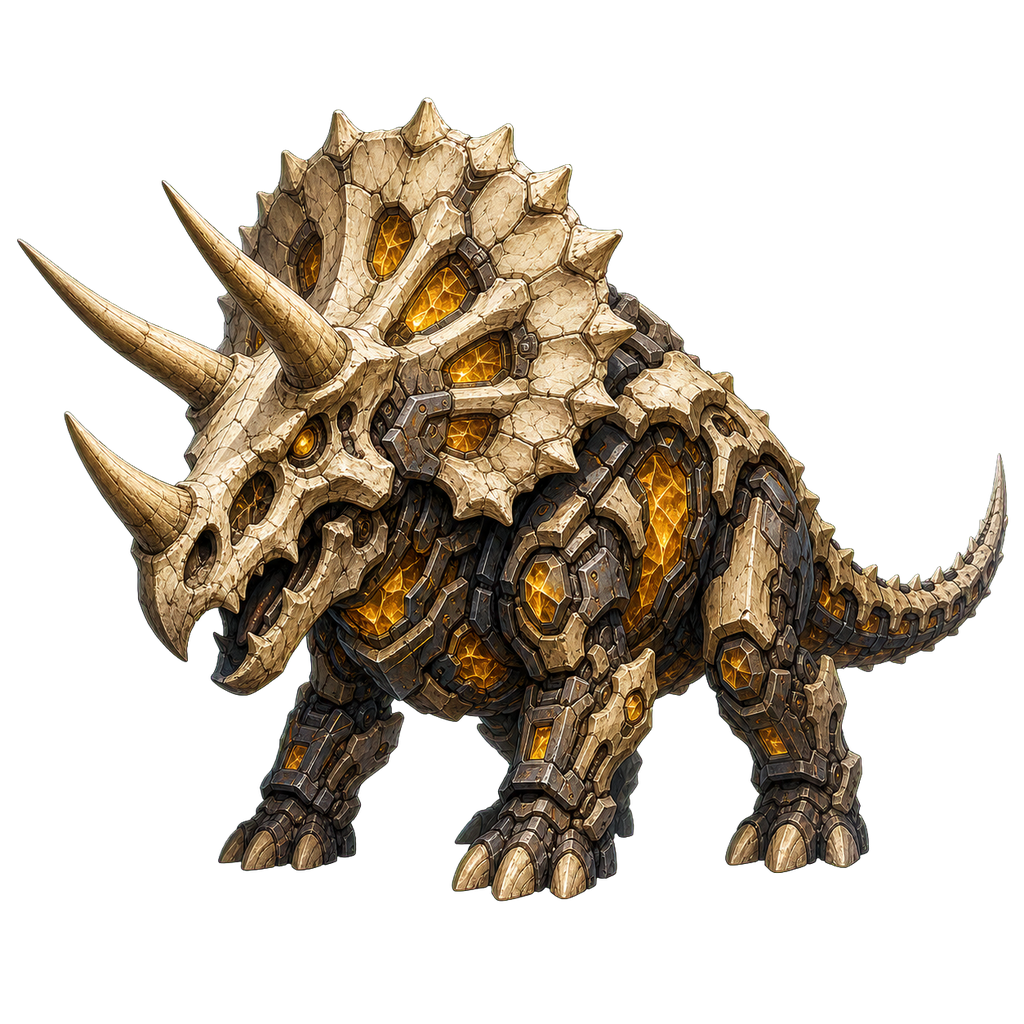
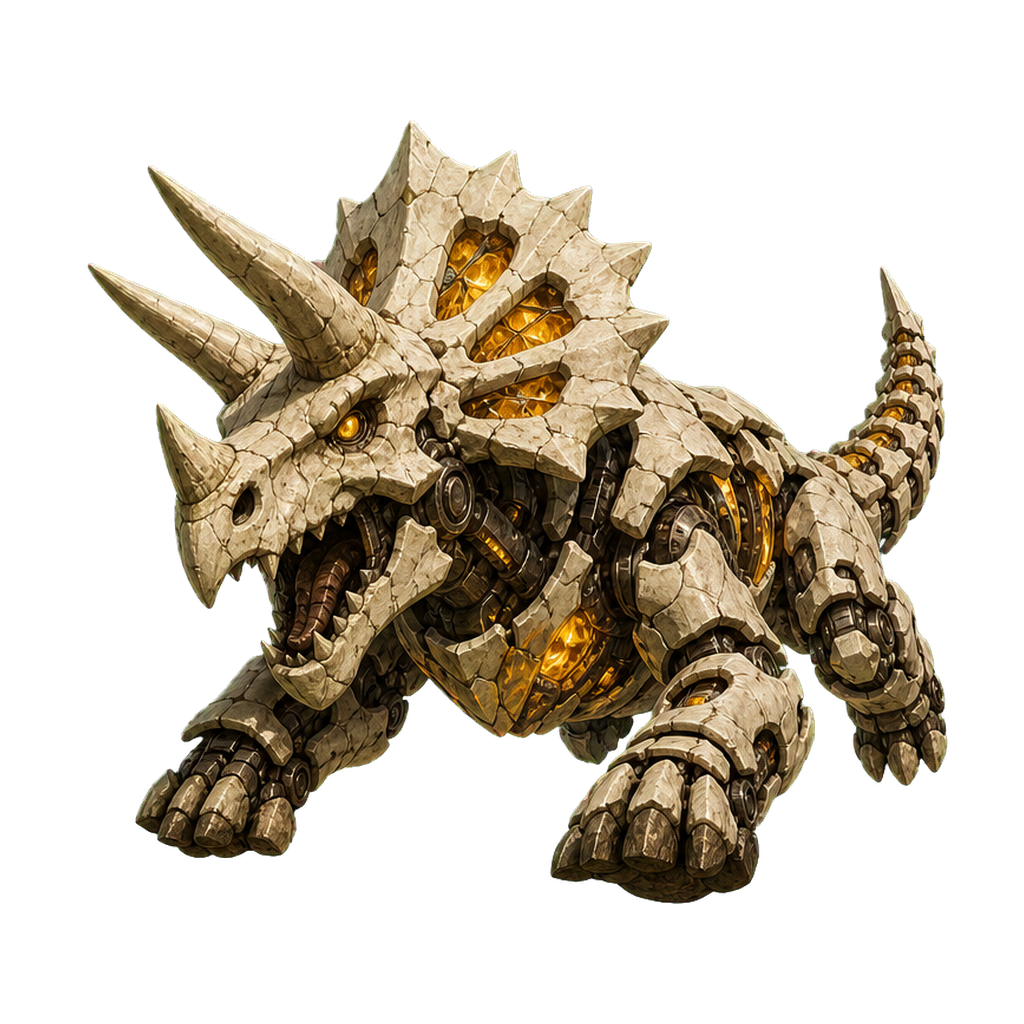
Rebuild isolated monster pose artwork

diff --git a/monster-system.js b/monster-system.js
@@ -38,15 +38,61 @@
   ];
 
   const INDIVIDUAL_SPRITE_OVERRIDES = Object.freeze({
-    fossil: { "perfect-b": { sheet: "singles/amber-ptera.png" } },
-    dojo: { "perfect-a": { sheet: "singles/jade-gorilla-monk.png" } },
-    slime: { "ultimate-1": { sheet: "singles/pudding-hydra.png" } },
-    candy: { "ultimate-2": { sheet: "singles/candywork-dragon.png" } },
-    glacier: { "ultimate-1": { sheet: "singles/permafrost-garm.png" } },
+    inferno: {
+      "ultimate-2": { sheet: "singles/flame-crown-dragon.png", attackSheet: "singles/flame-crown-dragon-attack.png" }
+    },
+    beetle: {
+      "ultimate-1": { sheet: "singles/steam-giant.png", attackSheet: "singles/steam-giant-attack.png" }
+    },
+    abyss: {
+      "ultimate-3": { sheet: "singles/submarine-dragon.png", attackSheet: "singles/submarine-dragon-attack.png" }
+    },
+    glacier: {
+      "ultimate-1": { sheet: "singles/permafrost-garm.png" },
+      "ultimate-2": { sheet: "singles/silver-ice-dragon.png", attackSheet: "singles/silver-ice-dragon-attack.png" }
+    },
+    candy: {
+      "ultimate-2": { sheet: "singles/candywork-dragon.png" },
+      "ultimate-3": { sheet: "singles/chaos-sweets-god.png", attackSheet: "singles/chaos-sweets-god-attack.png" }
+    },
+    junk: {
+      "ultimate-2": { sheet: "singles/racing-junk-dragon.png", attackSheet: "singles/racing-junk-dragon-attack.png" }
+    },
+    corsair: {
+      "ultimate-1": { sheet: "singles/battleship-whale-admira.png", attackSheet: "singles/battleship-whale-admira-attack.png" },
+      "ultimate-3": { sheet: "singles/treasure-island-crab-emperor.png", attackSheet: "singles/treasure-island-crab-emperor-attack.png" }
+    },
+    fossil: {
+      "perfect-a": { sheet: "singles/fossil-triceratops.png", attackSheet: "singles/fossil-triceratops-attack.png" },
+      "perfect-b": { sheet: "singles/amber-ptera.png" },
+      "ultimate-0": { sheet: "singles/bone-king-tyranno.png", attackSheet: "singles/bone-king-tyranno-attack.png" },
+      "ultimate-1": { sheet: "singles/fossil-amber-phoenix.png", attackSheet: "singles/fossil-amber-phoenix-attack.png" },
+      "ultimate-2": { sheet: "singles/ancient-mammoth.png", attackSheet: "singles/ancient-mammoth-attack.png" },
+      "ultimate-3": { sheet: "singles/fossil-nether-hydra.png", attackSheet: "singles/fossil-nether-hydra-attack.png" }
+    },
+    dojo: {
+      "perfect-a": { sheet: "singles/jade-gorilla-monk.png" },
+      "perfect-b": { sheet: "singles/white-rabbit-kicker.png", attackSheet: "singles/white-rabbit-kicker-attack.png" }
+    },
+    sonic: {
+      "perfect-a": { sheet: "singles/thunder-string-wolf.png", attackSheet: "singles/thunder-string-wolf-attack.png" }
+    },
+    festival: {
+      "ultimate-3": { sheet: "singles/dance-god-octopus.png", attackSheet: "singles/dance-god-octopus-attack.png" }
+    },
     bloom: {
+      "perfect-b": { sheet: "singles/lotus-crane.png", attackSheet: "singles/lotus-crane-attack.png" },
       "ultimate-0": { sheet: "singles/world-flower-dragon.png" },
       "ultimate-1": { sheet: "singles/spring-kirin.png" },
       "ultimate-3": { sheet: "singles/rainbow-garden-phoenix.png" }
+    },
+    slime: {
+      "ultimate-1": { sheet: "singles/pudding-hydra.png" },
+      "ultimate-2": { sheet: "singles/mercury-knight-god.png", attackSheet: "singles/mercury-knight-god-attack.png" }
+    },
+    gourmet: {
+      "ultimate-1": { sheet: "singles/hotpot-crab-king.png", attackSheet: "singles/hotpot-crab-king-attack.png" },
+      "ultimate-2": { sheet: "singles/sushi-phoenix.png", attackSheet: "singles/sushi-phoenix-attack.png" }
     }
   });
   LINEAGES.forEach((lineage) => {
@@ -443,9 +489,11 @@
       const facingFor = (slot) => lineage.rightFacing?.includes(slot) ? "right" : "left";
       const lineageSprite = (slot, position, zoom = 1.16) => {
         const override = lineage.spriteOverrides?.[slot];
-        return override
-          ? sprite(override.sheet, "contain", "center", override.aspect || 1, override.zoom || 1.04, facingFor(slot))
-          : sprite(lineage.sheet, "400% 200%", position, aspect, zoom, facingFor(slot));
+        if (!override) return sprite(lineage.sheet, "400% 200%", position, aspect, zoom, facingFor(slot));
+        const isolatedSprite = sprite(override.sheet, "contain", "center", override.aspect || 1, override.zoom || 1.04, facingFor(slot));
+        return override.attackSheet
+          ? { ...isolatedSprite, attackSheet: `images/monsters/${override.attackSheet}` }
+          : isolatedSprite;
       };
       add({ id: matureId, name: lineage.mature, stage: 3, lineage: lineage.id, sprite: lineageSprite("mature", "0% 0%"), next: [perfectA, perfectB] });
       add({ id: perfectA, name: lineage.perfect[0], stage: 4, lineage: lineage.id, sprite: lineageSprite("perfect-a", "33.333% 0%"), next: [`${lineage.id}-ultimate-0`, `${lineage.id}-ultimate-1`] });

diff --git a/index.html b/index.html
@@ -9843,21 +9843,27 @@
         "dune-perfect-a": 1.12,
         "bloom-perfect-a": 1.12,
         "bloom-ultimate-2": 1.1,
-        "inferno-ultimate-2": 1.1,
-        "fossil-ultimate-3": 1.08,
-        "gourmet-ultimate-1": 1.1,
-        "candy-ultimate-3": 1.08,
+        "bloom-perfect-b": 1.02,
+        "dojo-perfect-b": 1.02,
+        "sonic-perfect-a": 1.02,
+        "inferno-ultimate-2": 1.02,
+        "fossil-ultimate-0": 1.02,
+        "fossil-ultimate-1": 1.02,
+        "fossil-ultimate-3": 1.02,
+        "gourmet-ultimate-1": 1.02,
+        "candy-ultimate-3": 1.02,
         "gourmet-ultimate-3": 1.08,
         "beetle-ultimate-3": 1.08,
-        "gourmet-ultimate-2": 1.1,
-        "beetle-ultimate-1": 1.1,
-        "corsair-ultimate-1": 1.1,
-        "abyss-ultimate-3": 1.08,
-        "fossil-ultimate-2": 1.1,
-        "glacier-ultimate-2": 1.1,
-        "junk-ultimate-2": 1.1,
-        "corsair-ultimate-3": 1.08,
-        "festival-ultimate-3": 1.08,
+        "gourmet-ultimate-2": 1.02,
+        "beetle-ultimate-1": 1.02,
+        "slime-ultimate-2": 1.02,
+        "corsair-ultimate-1": 1.02,
+        "abyss-ultimate-3": 1.02,
+        "fossil-ultimate-2": 1.02,
+        "glacier-ultimate-2": 1.02,
+        "junk-ultimate-2": 1.02,
+        "corsair-ultimate-3": 1.02,
+        "festival-ultimate-3": 1.02,
         "fossil-perfect-b": 1.02,
         "dojo-perfect-a": 1.02,
         "slime-ultimate-1": 1.02,

diff --git a/sw.js b/sw.js
@@ -1,6 +1,6 @@
 "use strict";
 
-const CACHE_VERSION = "team-bingo-v1-20260802-territory-replay-monster-fit-98";
+const CACHE_VERSION = "team-bingo-v1-20260802-isolated-monster-poses-99";
 const SHELL_CACHE = `${CACHE_VERSION}-shell`;
 const ASSET_CACHE = `${CACHE_VERSION}-assets`;
 const SHELL_FILES = [
